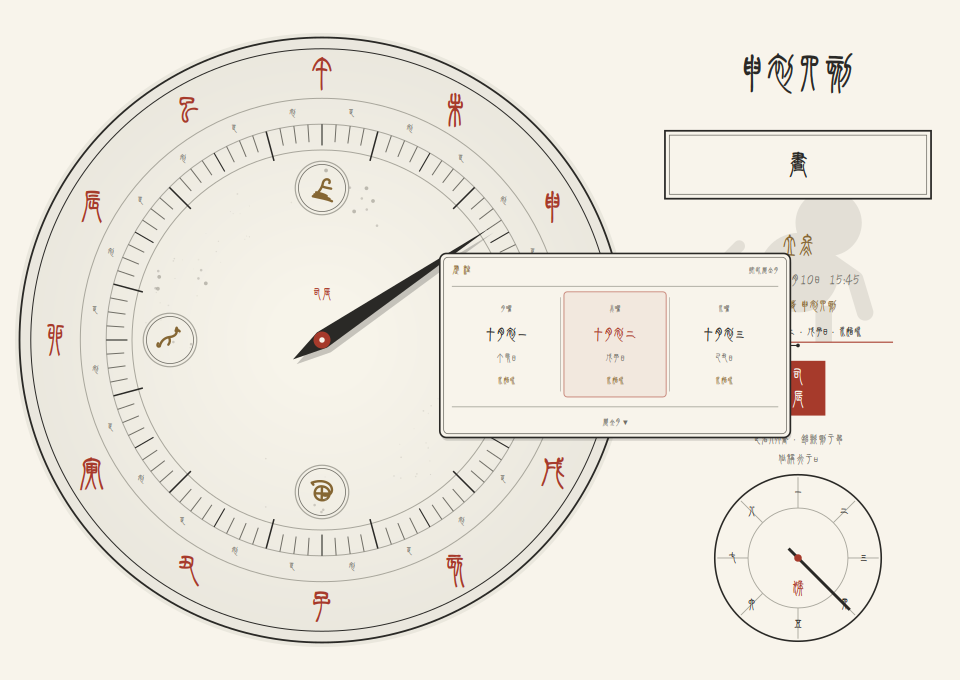
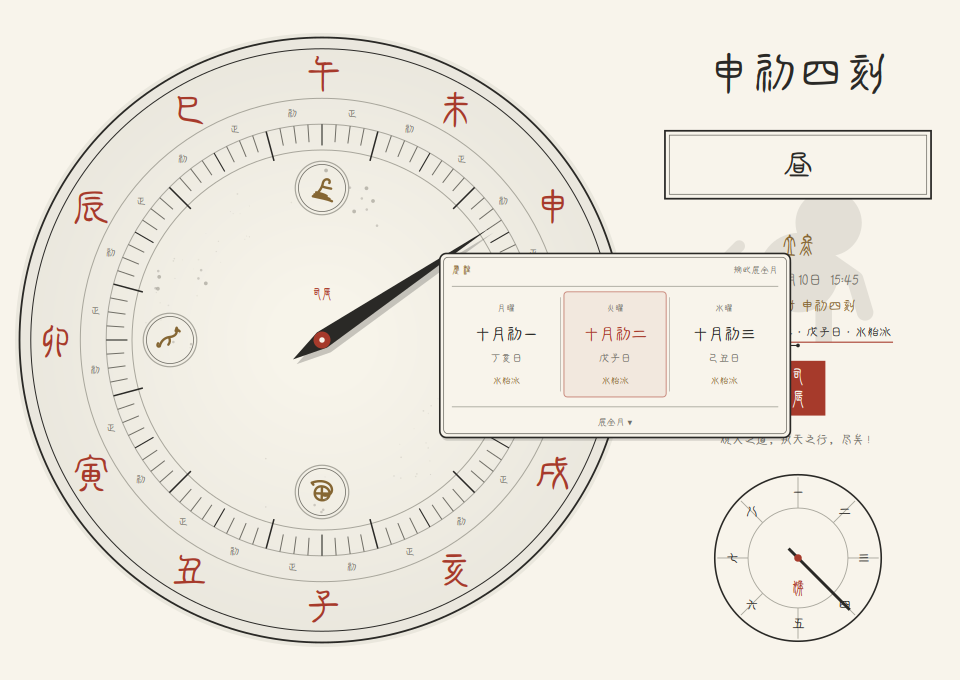
1.4.2：AppStream 软件中心资讯与铭文更订
- 新增 cn.workbuddy.kepan.metainfo.xml：简介、长描述、三张截图、
  版本历史、OARS 分级，随 deb 装入 /usr/share/metainfo/，软件中心
  （GNOME Software / Discover）即可显示简介与截图
- screenshots/ 入库三张图：昼盘、历注气泡、夜盘壁画
- 面板名例由「正名入文书 · 铭款刻于器 / 俗称行于口」改刻
  《阴符经》句「观天之道，执天之行，尽矣！」，预览图同步重出

diff --git a/dial.py b/dial.py
@@ -730,9 +730,8 @@ def _panel(ctx, x, y, w, st, pal, fonts, k=1.0, watermark=None, wm_alpha=0.16):
     _text(ctx, cx, sy + ss * 0.30, "司", 19 * k, seal, pal["bg"])
     _text(ctx, cx, sy + ss * 0.71, "辰", 19 * k, seal, pal["bg"])
 
-    # 名例两行
-    _text(ctx, cx, y + _NAME_Y * k, "正名入文书 · 铭款刻于器", 11 * k, chen_f, faint)
-    _text(ctx, cx, y + (_NAME_Y + 18.0) * k, "俗称行于口", 11 * k, chen_f, faint)
+    # 名例一行
+    _text(ctx, cx, y + _NAME_Y * k, "观天之道，执天之行，尽矣！", 11 * k, chen_f, faint)
 
     # 八刻副盘
     r = side_r

diff --git a/README.md b/README.md
@@ -1,6 +1,6 @@
 # 刻盘钟 · 司辰
 
-十二时辰盘钟的 Linux 桌面程序（1.4.1），MIT 许可。以「以天度为盘、以晷影为针」为制：
+十二时辰盘钟的 Linux 桌面程序（1.4.2），MIT 许可。以「以天度为盘、以晷影为针」为制：
 
 - **正名「刻盘钟」，铭款「司辰」，俗称「时盘」**——正名入文书，铭款刻于器，俗称行于口。
 - 主盘三重刻度：一辰三十度，初正十五度，九十六刻一刻三点七五度；辰字朱填居辰之中，午上子下、卯左酉右，晷针顺时针行。
@@ -26,10 +26,10 @@
 
 ## 安装（deb）
 
-从 [Releases](https://github.com/ayoblock/kepan-clock/releases) 下载 `kepan-clock_1.4.1-1_all.deb` 直接安装；或按「源码运行」与文末「打包」自行构建：
+从 [Releases](https://github.com/ayoblock/kepan-clock/releases) 下载 `kepan-clock_1.4.2-1_all.deb` 直接安装；或按「源码运行」与文末「打包」自行构建：
 
 ```sh
-sudo dpkg -i kepan-clock_1.4.1-1_all.deb
+sudo dpkg -i kepan-clock_1.4.2-1_all.deb
 sudo apt-get install -f   # 若缺依赖
 ```
 
@@ -163,15 +163,17 @@ kepan_clock/
 ## 打包
 
 ```sh
-sh build_deb.sh      # 产物：../kepan-clock_1.4.1-1_all.deb
+sh build_deb.sh      # 产物：../kepan-clock_1.4.2-1_all.deb
 ```
 
 需 `dpkg-deb`（`dpkg-dev` 包）。脚本按 `pkgroot/` 组织目录树、写 control 与 postinst、
 刷新图标缓存，不触碰 `~/.config/kepan-clock/` 下的用户配置。
 
-## 名例（页脚同文）
+## 名例
 
 > 正名「刻盘钟」，铭款「司辰」，俗称「时盘」；正名入文书，铭款刻于器，俗称行于口，三场各守，不得混用。
+
+盘面页脚现刻《阴符经》句：**观天之道，执天之行，尽矣！**
 
 ## 许可
 
